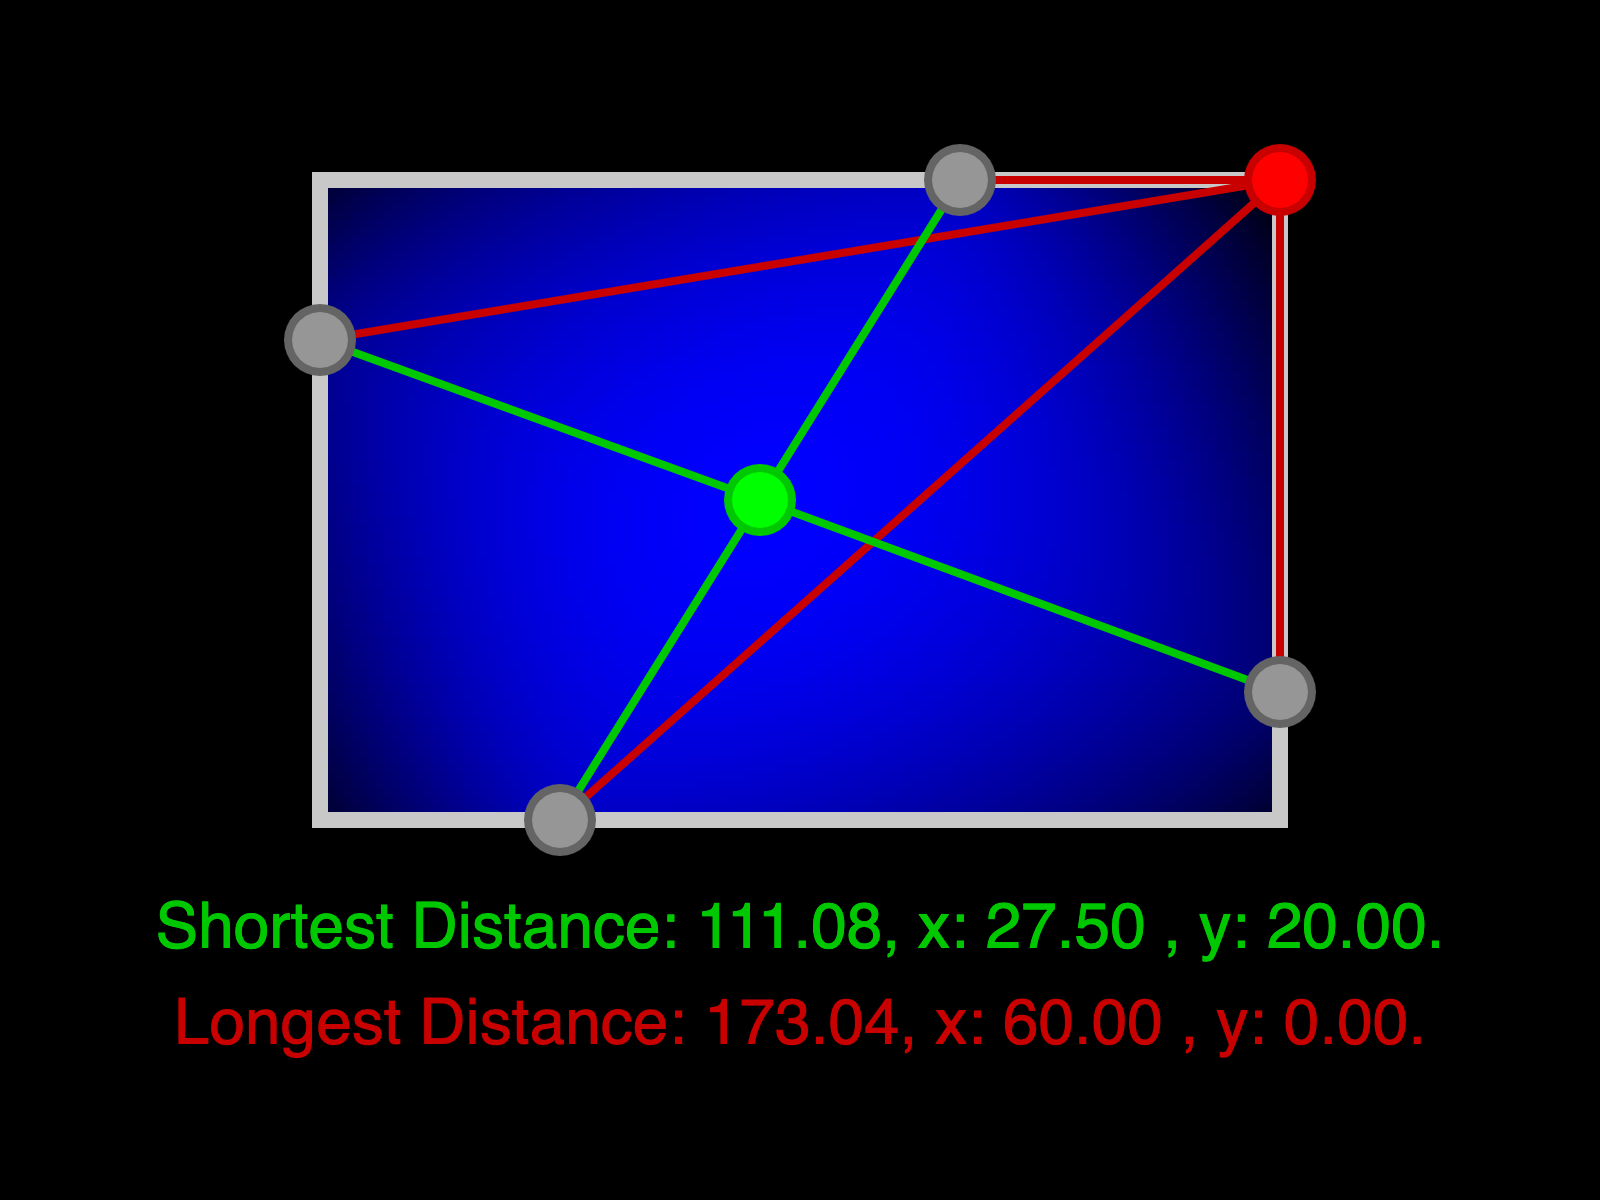
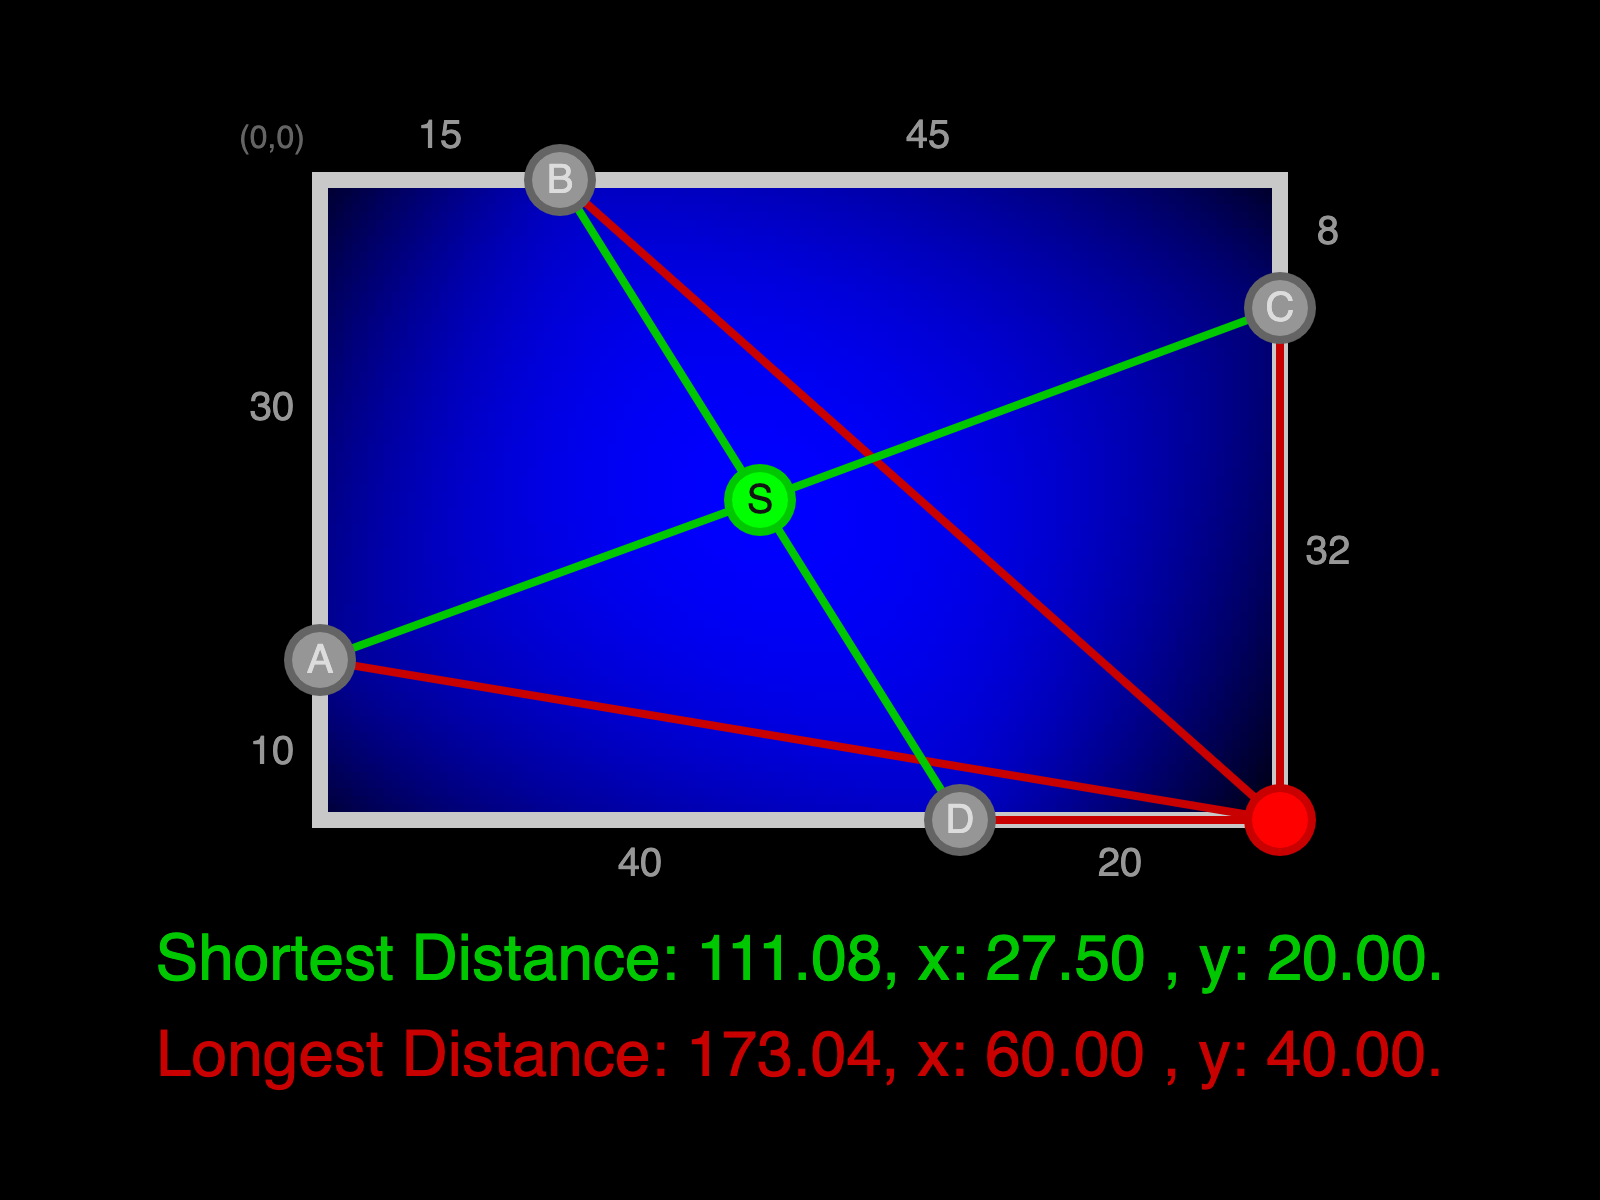
Complete with labels!

diff --git a/sketch.js b/sketch.js
@@ -25,10 +25,10 @@ function setup() {
   background(0);
   noLoop()
 
-  A = createVector(0,10);
-  B = createVector(15,40);
-  C = createVector(60,32);
-  D = createVector(40,0);
+  A = createVector(0,30);
+  B = createVector(15,0);
+  C = createVector(60,8);
+  D = createVector(40,40);
 
   S = createVector(0,0);
   borderPoints = [A,B,C,D];
@@ -167,11 +167,40 @@ function draw() {
   fill(0,200,0);
   text(`Shortest Distance: ${low.toFixed(2)}, x: ${lowPos.x.toFixed(2)} , y: ${lowPos.y.toFixed(2)}.`, 
     g_width / 2, 
-    g_height + 8);
+    g_height + 10);
   fill(200,0,0);
   text(`Longest Distance: ${high.toFixed(2)}, x: ${highPos.x.toFixed(2)} , y: ${highPos.y.toFixed(2)}.`,
     g_width / 2, 
-    g_height + 14);
+    g_height + 16);
+
+
+  // Origin
+  textSize(2);
+  fill(100);
+  text(`(0,0)`, -3, -2)
+
+  // Distances
+  textSize(2.5);
+  fill(150);
+  text("30", -3, 15);
+  text("10", -3, 36.5);
+  text("8", g_width + 3, 4);
+  text("32", g_width + 3, 24);
+  text("15", 7.5, -2);
+  text("45", 38, -2);
+  text("40", 20, g_height + 3.5);
+  text("20", 50, g_height + 3.5);
+
+  // Points
+  textSize(2.5);
+  fill(220);
+  text("A", A.x, A.y+0.8);
+  text("B", B.x, B.y+0.8);
+  text("C", C.x, C.y+0.8);
+  text("D", D.x, D.y+0.8);
+  fill(20);
+  text("S", lowPos.x, lowPos.y+0.8);
+
 
 
   // Save out to image!
